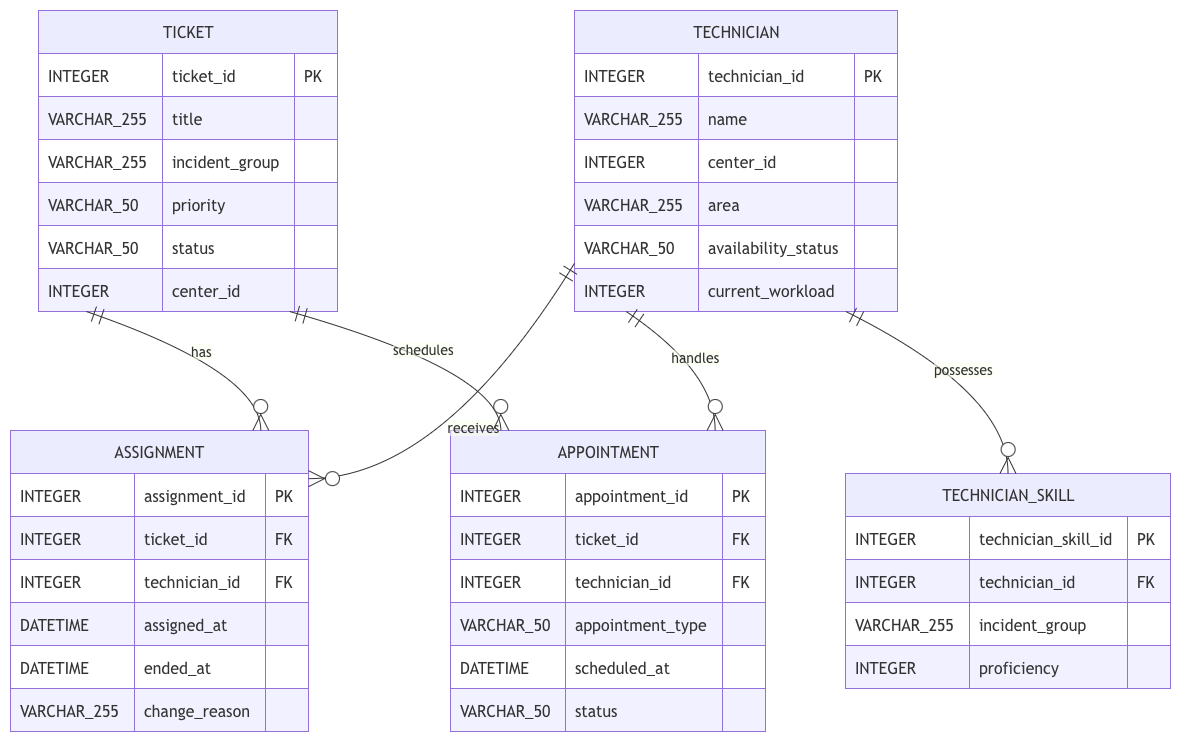
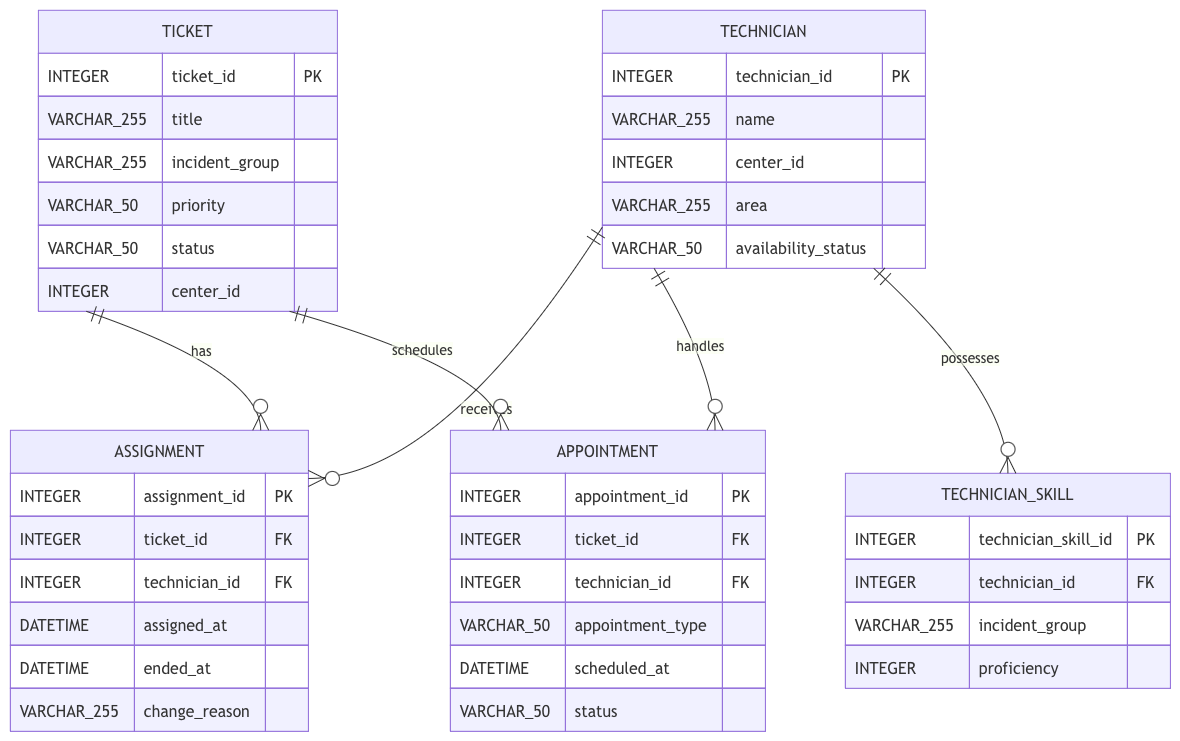
docs: finalize L4 SRS ERD schema and wireframes

diff --git a/docs/srs.md b/docs/srs.md
@@ -1,3 +1,4 @@
+
 # SRS Rút Gọn – Smart CRM Mekong Mobile
 
 **Sinh viên:** Nguyễn Minh Trị  
@@ -181,8 +182,8 @@ Tại một thời điểm, một phiếu chỉ được gán cho tối đa mộ
 **BR2 – Điều kiện kỹ thuật viên**  
 Kỹ thuật viên chỉ được phân công cho nhóm sự cố mà kỹ thuật viên có mức proficiency **≥ 3** và phải thuộc cùng trung tâm.
 
-**BR3 – Trạng thái phiếu**  
-Trạng thái phiếu phải tuân theo vòng đời quy định, không được chuyển ngược trạng thái và mọi thay đổi trạng thái phải được ghi nhận.
+**BR3 – Điều kiện trạng thái phiếu**  
+Hệ thống chỉ cho phép phân công kỹ thuật viên đối với các phiếu đang ở trạng thái PENDING (chờ phân công). Các phiếu đã có phân công đang hoạt động không được phân công thêm kỹ thuật viên khác.
 
 **BR4 – Thời hạn cam kết**  
 Thời hạn cam kết xử lý theo mức ưu tiên:

diff --git a/docs/architecture.md b/docs/architecture.md
@@ -44,6 +44,7 @@ Trách nhiệm chính:
 
 - Truy vấn các phiếu cần phân công.
 - Truy vấn danh sách kỹ thuật viên khả dụng.
+- Tính khối lượng công việc hiện tại (`current_workload`) của mỗi kỹ thuật viên bằng cách đếm số bản ghi Assignment đang hoạt động (`ended_at IS NULL`), thay vì lưu trực tiếp trong bảng Technician.
 - Xử lý phân công và thay đổi kỹ thuật viên.
 - Thực hiện UC7 – Kiểm tra điều kiện phân công.
 - Kiểm tra proficiency ≥ 3 và kỹ thuật viên thuộc cùng trung tâm.
